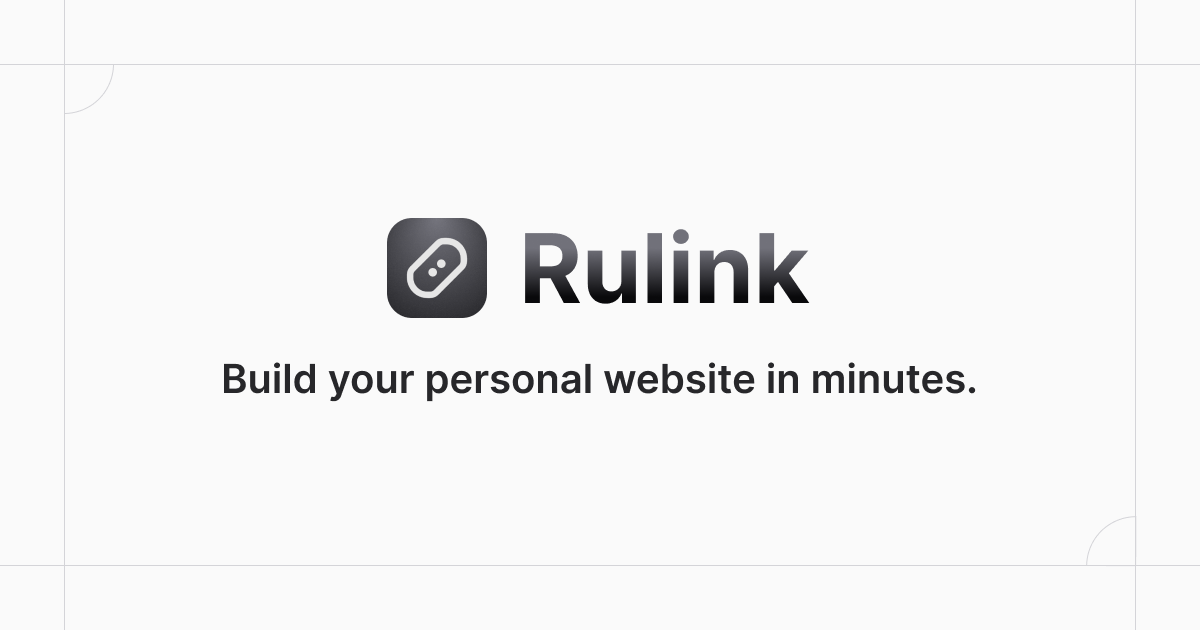
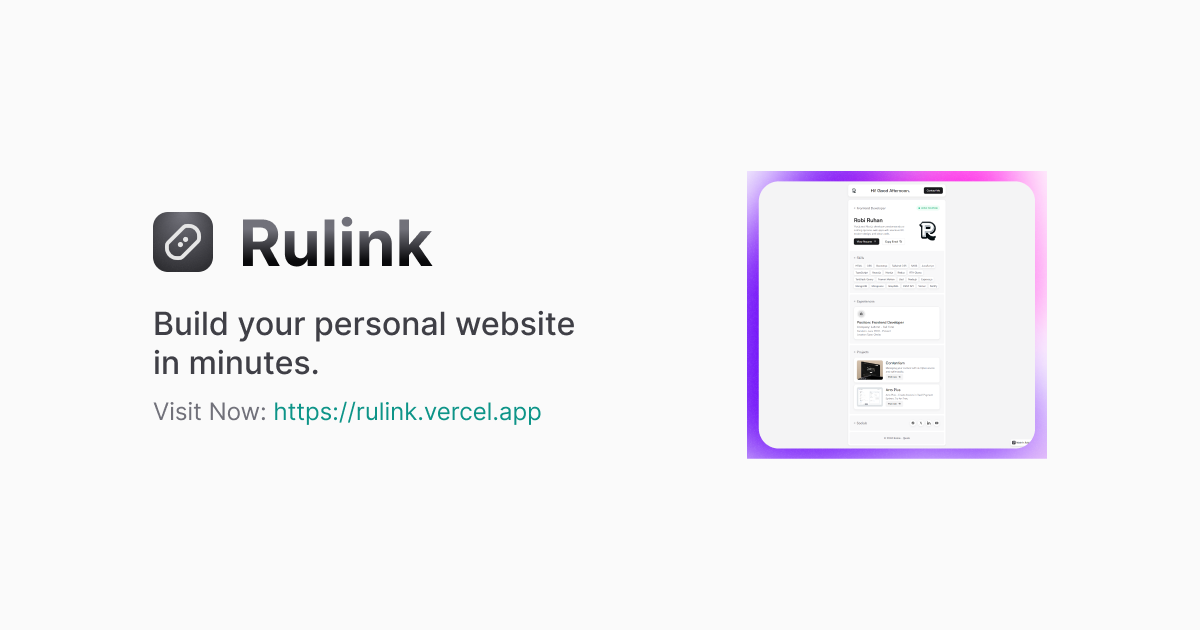
feat: update readme and opengraph image

Changed region(s): [[0.1233, 0.2714, 0.8942, 0.754], [0.7092, 0.4222, 0.7708, 0.5429]]

diff --git a/README.md b/README.md
@@ -1,1 +1,37 @@
-## **Rulink Frontend**
+# **Rulink - Build your personal website in minutes.**
+
+![Rulink Banner](https://i.ibb.co/rfv6fyS/rulink-thumbnail.png)
+
+## **Introduction**
+
+**Rulink - Build your personal website in minutes. Streamline your digital identity. Transform your rulink into a dynamic platform that highlights your brand, content, and projects—all within a sleek, user-friendly interface.**
+
+## **Key Features**
+
+- **Authentication. (Sign up / Sign in)**
+- **Claim Username.**
+- **Generate Custom Unique Website URL.**
+- **Manage Website Content.**
+- **Share Generated Website URL.**
+- **Animated Interface.**
+- **Responsive Full Application.**
+- **Optimize Metadata, Opengraph Image and SEO.**
+
+## **Technical Stacks**
+
+### **Frontend**
+
+- **Clerk - Next generation authentication system for modern web applications.**
+- **Next JS - Modern fast react framework for buliding user interface.**
+- **TypeScript - Ensure type safty and handling run time error.**
+- **Redux Toolkit - Global state management.**
+- **RTK Query - Efficient api query and mutations.**
+- **Tailwind CSS - Designing user interface rapidly with utility first approach.**
+- **Shadcn UI - Develop accessible and customizable ui components with radix premitives and shadcn themes.**
+- **React Hook Form - Handling form data efficiently.**
+- **Zod - Validating schemas.**
+- **Framer Motion - Animating application with fun.**
+- **Lottie React - Using cool lottie animations.**
+- **Other necessary packages**
+
+## **Live Site: [https://rulink.vercel.app](https://rulink.vercel.app)**
